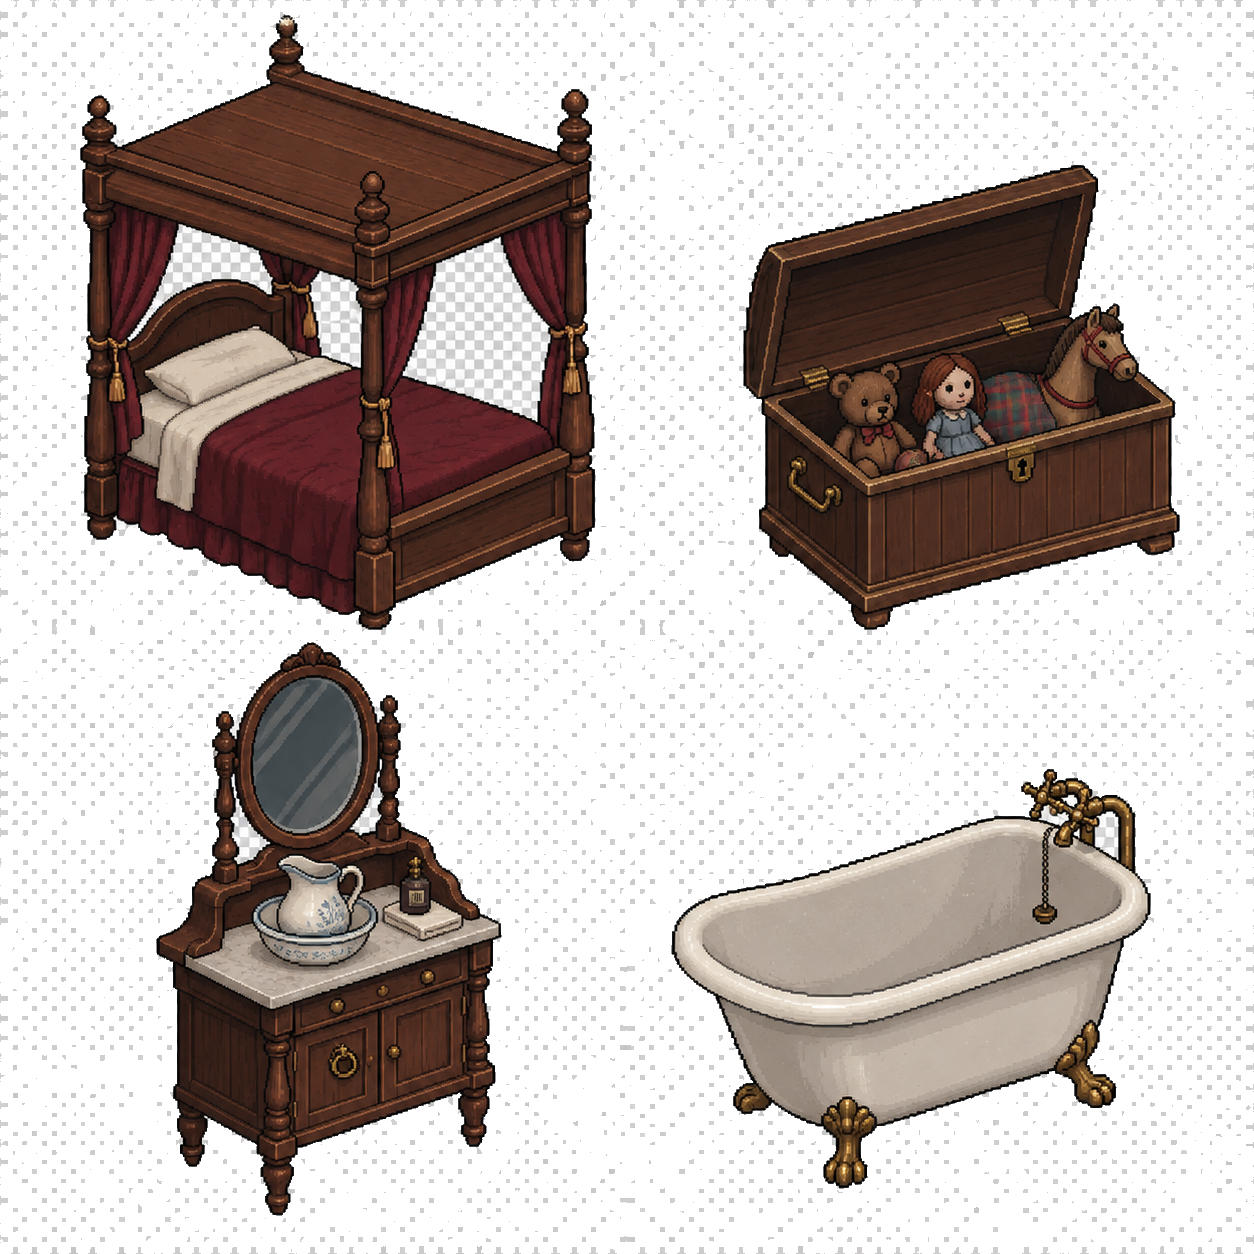
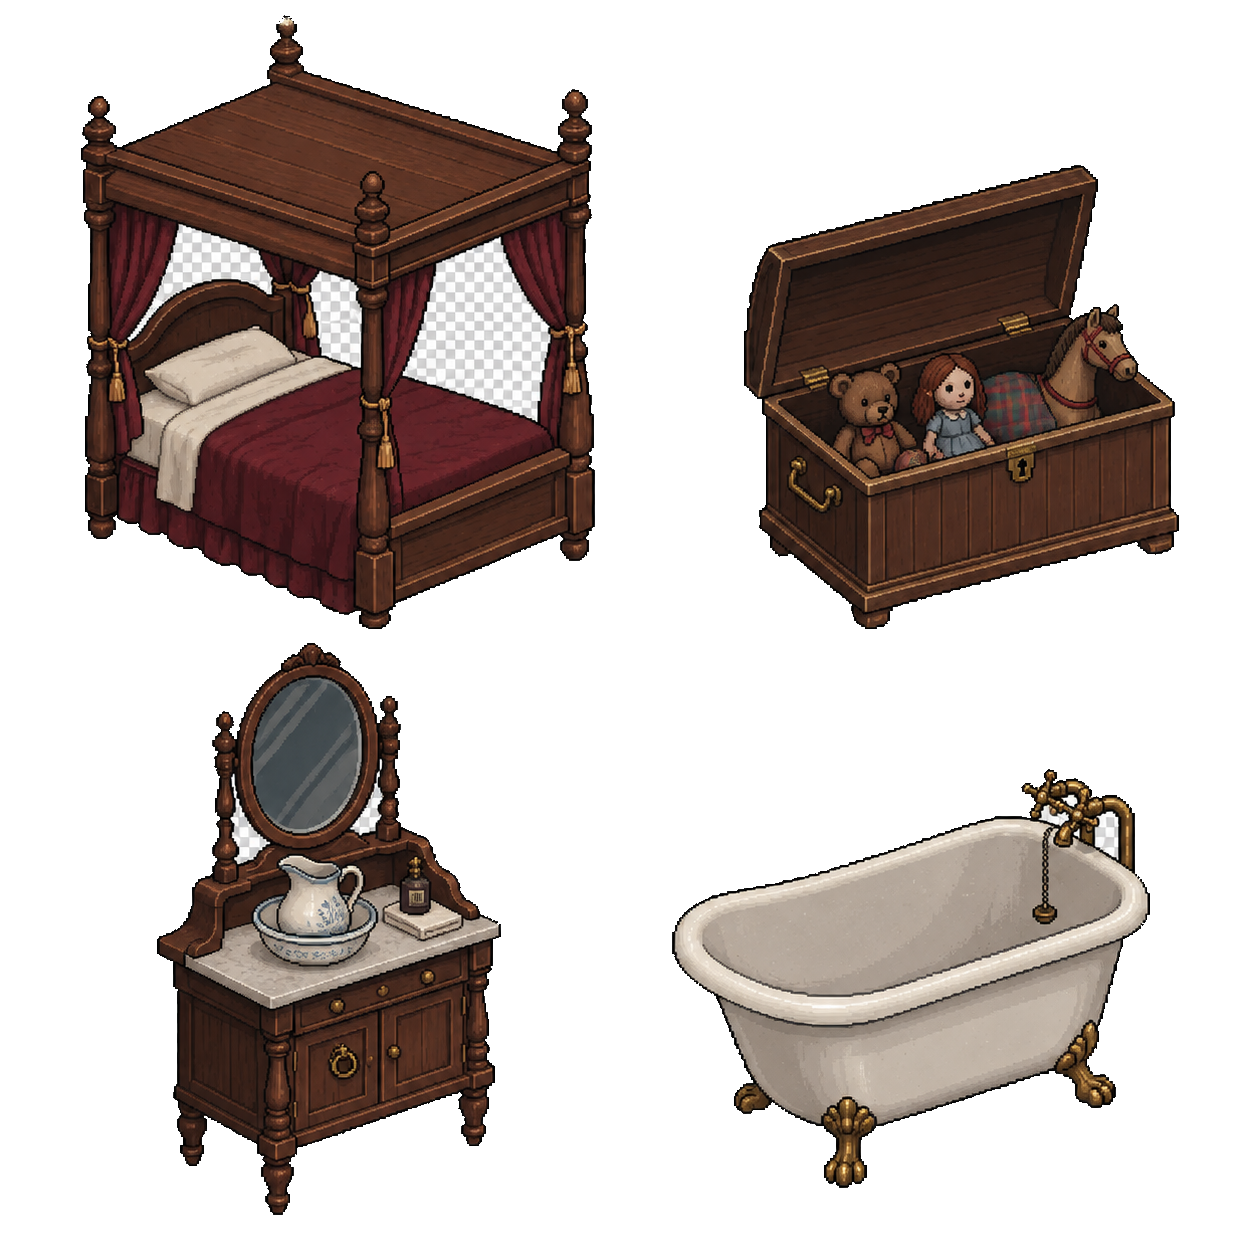
bug fixed

diff --git a/assets/environment/props/estate_domestic/README.md b/assets/environment/props/estate_domestic/README.md
@@ -1,0 +1,29 @@
+# Estate Domestic Props Atlas
+
+`estate_domestic_props_alpha.png` was generated with OpenAI's built-in image generation tool for this project on 2026-09-13. It supplies the upper-floor bed, toy chest, washstand, and bathtub used by `data/estate_art.json`.
+
+The generated RGB output included a baked checkerboard even though transparent output was requested. A deterministic edge-connected background extraction converted only the surrounding neutral checker pixels to alpha; the four illustrated props were not redrawn or altered.
+
+## Final Prompt Set
+
+### Prop Sheet
+
+```text
+Use case: stylized-concept
+Asset type: transparent 2D game prop sprite sheet for the existing LIBERTAS VINCTA top-down/three-quarter pixel-art horror game
+Primary request: Create one clean 2-by-2 sprite sheet containing exactly four separate antique domestic furniture props: top-left a full wooden four-poster bed with muted burgundy bedding; top-right a large open wooden toy chest with a few simple cloth toys visible; bottom-left a Victorian washstand with porcelain basin and oval mirror; bottom-right a white claw-foot bathtub.
+Style/medium: hand-painted pixel art matching the attached in-game furniture, crisp nearest-neighbor edges, subdued late-Victorian horror palette, readable at roughly 120-180 pixels wide in game
+Composition/framing: each prop fully visible in a consistent front three-quarter/top-down game perspective, grounded at its own bottom-center foot point, centered inside one quadrant with generous transparent spacing; no prop touches another
+Lighting/mood: dim neutral ambient light, subtle warm wood, no cast scene background
+Constraints: genuinely transparent background; no floor, walls, shadows extending outside each prop, labels, letters, UI, characters, text, watermark, borders, grid lines, or decorative framing; exact 2-by-2 arrangement; preserve clear separation for atlas cropping
+```
+
+### Transparency Retry
+
+```text
+Use case: background-extraction
+Asset type: transparent 2D game prop sprite sheet
+Primary request: Remove the gray-and-white checkerboard background completely and replace it with genuine transparent alpha.
+Input images: Image 1 is the edit target.
+Constraints: change only the background; preserve the bed, open toy chest and toys, washstand and mirror, and claw-foot bathtub exactly as drawn, at the same size, pixel-art style, positions, spacing, colors, and 2-by-2 arrangement; retain crisp edges and interior details; no checkerboard pixels, no replacement background, no floor, no labels, no grid, no border, no text, no watermark. The exported PNG must have a real alpha channel with alpha 0 in every background area.
+```

diff --git a/ASSET_CREDITS.md b/ASSET_CREDITS.md
@@ -13,6 +13,7 @@ Add a row for every third-party asset before release. Keep original license file
 | `assets/environment/props/estate_essentials/estate_essentials.png` | OpenAI image generation, generated for this project on 2026-09-12 | Built-in imagegen; prompt and provenance in adjacent README | Generated output, not part of the commercial props pack | Six cached Godot atlas regions with transparent-margin trimming; source PNG unchanged | AI provenance recorded; no third-party attribution supplied |
 | `assets/environment/props/cathedral/cathedral_props.png` | OpenAI image generation, generated for this project on 2026-09-13 | Built-in imagegen; prompt and provenance in adjacent README | Generated output | Six atlas slices with transparent-margin trimming | AI provenance recorded; no third-party attribution supplied |
 | `assets/environment/props/cathedral/survival_pickups.png` | OpenAI image generation, generated for this project on 2026-09-13 | Built-in imagegen; prompt and provenance in adjacent README | Generated output | Four atlas slices with transparent-margin trimming | AI provenance recorded; no third-party attribution supplied |
+| `assets/environment/props/estate_domestic/estate_domestic_props_alpha.png` | OpenAI image generation, generated for this project on 2026-09-13 | Built-in imagegen; prompt and provenance in adjacent README | Generated output | Four atlas slices; edge-connected checker background converted to alpha after the built-in transparency retry remained opaque | AI provenance recorded; no third-party attribution supplied |
 | `assets/sprites/player/*.png` | AI-generated; supplied by project owner | See `assets/sprites/player/prompts.json` and README | See supplied asset provenance | Godot atlas regions, animation mapping and scene scaling; original PNGs unchanged | See supplied provenance |
 | `assets/sprites/zombie/Skin2_x256_Spritesheets/` | Not identified in supplied folder | Supplied by project owner | Not supplied | Godot atlas regions, animation mapping and scene scaling; original PNGs unchanged | Not supplied |
 

diff --git a/AI_DISCLOSURE.md b/AI_DISCLOSURE.md
@@ -5,6 +5,7 @@ The project contains AI-generated raster artwork.
 - `assets/environment/props/estate_essentials/estate_essentials.png`: generated for this project on 2026-09-12. The adjacent README records its prompt and atlas use.
 - `assets/environment/props/cathedral/cathedral_props.png`: generated with OpenAI's built-in image generation tool on 2026-09-13 for the cathedral rubble, sarcophagus, altar, forge, Nexus anchor, and ritual seal.
 - `assets/environment/props/cathedral/survival_pickups.png`: generated with OpenAI's built-in image generation tool on 2026-09-13 for battery, bottle, clock, and lockpick pickups.
+- `assets/environment/props/estate_domestic/estate_domestic_props_alpha.png`: generated with OpenAI's built-in image generation tool on 2026-09-13 for the upper-floor bed, toy chest, washstand, and bathtub. The adjacent README records the prompt and alpha cleanup.
 - `assets/sprites/player/*.png`: supplied by the project owner with AI-generation provenance in that folder's README and prompt files.
 
-The two cathedral prompts and their project use are recorded in `assets/environment/props/cathedral/README.md`. Gameplay code, collision, room data, AI rules, and atlas slicing remain editable project source.
+The cathedral prompts and their project use are recorded in `assets/environment/props/cathedral/README.md`; the domestic prompt set is recorded in `assets/environment/props/estate_domestic/README.md`. Gameplay code, collision, room data, AI rules, and atlas slicing remain editable project source.

diff --git a/docs/QA.md b/docs/QA.md
@@ -6,7 +6,7 @@ Validated with Godot 4.7 stable on 2026-09-13.
 
 | Suite | Coverage | Result |
 | --- | --- | --- |
-| `tests/verify_estate_assets.tscn` | 7 zones, 37 room regions, 56 texture entries, every progression prop, doors, pickup markers, paths, hiding priorities, recharge coverage, and simultaneous Nexus anchor framing | 662 checks, 0 failures |
+| `tests/verify_estate_assets.tscn` | 7 zones, 37 room regions, 60 texture entries, every progression prop, doors, pickup markers, paths, hiding priorities, recharge coverage, and simultaneous Nexus anchor framing | 676 checks, 0 failures |
 | `tests/verify_game_systems.tscn` | Input map, all Part II seeds, movement and battery tunables, noise radii, nine enemy states, hearing escalation, sight confirmation, Memory pursuit, Blood/partial magic costs, stun, and interrupted channel reset | 48 checks, 0 failures |
 | `tests/verify_game_route.tscn` | Awakening, Hearing key, four-letter Vantree gate, all floor transitions, Part II seed, Roots, Echoes, three mechanic uses, Nexus, Severance, and two Loop resets | 92 checks, 0 failures |
 
